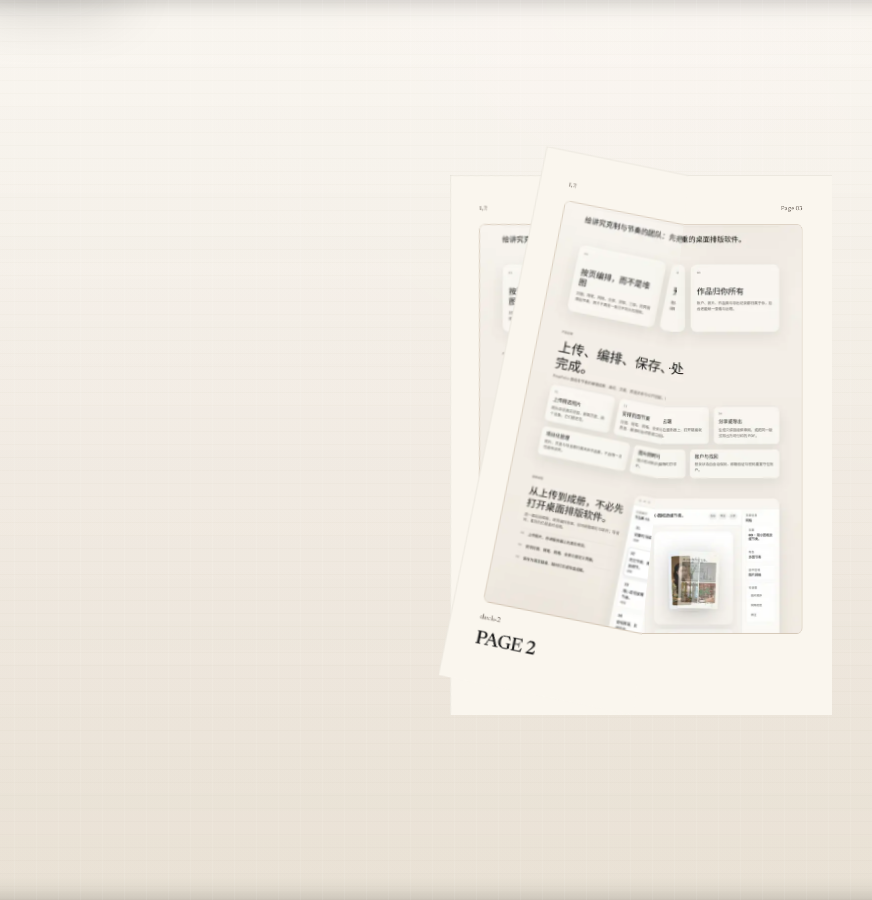
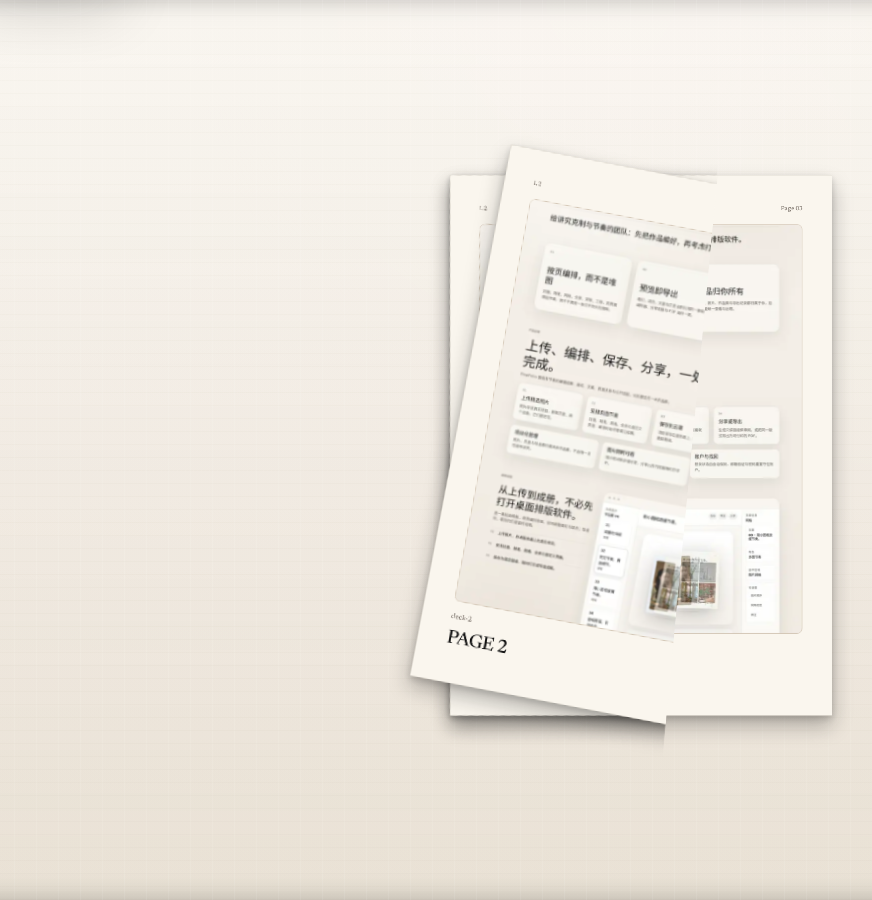
Make the per-page box-shadow visible
The page box-shadow was being clipped by `.inner-page { overflow: hidden }` and
the boundary clip, so pages looked shadowless. `.inner-page` is now overflow
visible and `.clip` keeps `overflow: clip` with a 48px clip margin, so the shadow
extends outside the sheet while page content stays clipped. The shadow is also
strong enough to read at rest.

The shadow remains a static box-shadow (no filter), so it does not flicker and
images are not re-rasterized.

diff --git a/src/styles.css b/src/styles.css
@@ -5018,6 +5018,19 @@ button.asset-frame {
   backface-visibility: hidden;
 }
 
+.issue-viewer__turnjs .page-wrapper {
+  overflow: visible !important;
+}
+
+.issue-viewer__turnjs .inner-page {
+  overflow: visible !important;
+}
+
+.issue-viewer__turnjs .clip {
+  overflow: clip !important;
+  overflow-clip-margin: 48px;
+}
+
 .issue-viewer__turnjs.issue-viewer__turnjs--ready > .issue-turnjs__page {
   display: none !important;
 }
@@ -5047,9 +5060,7 @@ button.asset-frame {
 }
 
 .issue-turnjs__page--boundary {
-  overflow: hidden;
-  overflow: clip;
-  overflow-clip-margin: 14px;
+  overflow: visible;
 }
 
 .issue-turnjs__sheet {
@@ -5070,14 +5081,14 @@ button.asset-frame {
 
 .issue-turnjs__sheet-scale .magazine-page {
   box-shadow:
-    0 12px 22px rgba(17, 17, 17, 0.16),
-    0 3px 7px rgba(17, 17, 17, 0.08);
+    0 22px 40px rgba(17, 17, 17, 0.28),
+    0 6px 14px rgba(17, 17, 17, 0.16);
 }
 
 .issue-turnjs__page--boundary .issue-turnjs__sheet-scale .magazine-page {
   box-shadow:
-    0 10px 18px rgba(17, 17, 17, 0.14),
-    0 2px 6px rgba(17, 17, 17, 0.07);
+    0 20px 36px rgba(17, 17, 17, 0.26),
+    0 5px 12px rgba(17, 17, 17, 0.15);
 }
 
 .issue-viewer__boundary-turn {

diff --git a/docs/issue-register.md b/docs/issue-register.md
@@ -163,7 +163,7 @@
 | T7 | 图库磁贴悬停时边框变白，照片像被裁掉 | hover 规则用了白色边框 + 浮起阴影 | 已修复：悬停只把边框加深到 30% 墨色，不浮起、不变白 |
 | T8 | 图片未加载时显示纯白块，像是坏了 | 没有加载/失败状态 | 已修复：共用 `PhotoThumb`，加载中显示“加载中…”，失败显示“图片无法显示”；证据 `docs/evidence/2026-11-21-gallery-loading.png` |
 | T9 | 点击 UnAlbum 图片只显示“导入中”，随后没有反应，实际无法使用 | 导入路由还引用了已删除的 `binding` 变量，接口 500 | 已修复：使用 `getPhotoForUser` 返回的 binding；`validate:mvp` 新增真实导入 + 去重 + 缩略图代理用例 |
-| T20 | 全局背景阴影闪烁/消失/提前出现；页面阴影在按压、拖动、悬停角时闪烁；翻页中图片闪烁 | 背景阴影绑定到掀起时序；页面阴影用 `filter: drop-shadow` 会强制整页（含图片）在 3D 变换中重栅格化 | 已移除全局背景阴影；页面阴影改为 `.magazine-page` 的 `box-shadow`，无 filter 祖先，图片不重绘；闭合/展开/翻动/平铺都保留并随纸移动。测试 reader 6/6 |
+| T20 | 全局背景阴影闪烁/消失/提前出现；页面阴影在按压、拖动、悬停角时闪烁；翻页中图片闪烁；阴影被 turn.js 裁剪链完全裁掉 | 背景阴影绑定掀起时序；页面阴影用 `filter: drop-shadow` 强制整页重栅格化；`.inner-page`/`.clip` 的 `overflow: hidden` 把 `box-shadow` 裁掉 | 已移除全局背景阴影；页面阴影改为 `.magazine-page` 的 `box-shadow`，并放开 `.inner-page`、给 `.clip` 48px clip margin，让阴影可见且内容仍裁剪；无 filter 祖先，图片不重绘。测试 reader 6/6 |
 | T19 | 从封面翻开时左侧出现第二页内容；turn.js 单面页面把封面正面留在左边、把目标页画在翻页背面 | 阅读器把每一页当作单面 DOM，turn.js 的 sheet 效果没有独立背面 | **未修复，需页面模型改造**：正确方案是把奇数页/偶数页配成一张纸，正反两面分别渲染并做背面隐藏；试过的 CSS 镜像/隐藏背面会产生空白或扭曲，已回退。需要确认翻页配对规则后再改（见报告 2026-11-22） |
 | T18 | 分享页未翻页时杂志没有任何背景阴影或轮廓，像浮在空白上的白纸；已有的阴影 CSS 从未被任何代码激活 | 阴影状态类无人设置，turn.js 自带 `.shadow` 又被强制隐藏 | 已修复：在书本体上增加非旋转接触阴影（左右两半，`::before`/`::after`），按 cover/spread/last 三种静止形态只覆盖真实纸张，翻页期间按仍在桌面上的纸张逐半保留/移除；1px 纸边 + 两层柔和投影，ready 后才淡入。实测 cover/spread/翻页中/落页/折角/拖拽折角/移动端/全屏 8 种状态；证据 `docs/evidence/2026-11-22-reader-*.png`；新增 e2e 断言三种静止形态的阴影几何 |
 | T14 | 公开分享页拖拽翻页后，页面一直粘在鼠标上，松开左键或单击都不释放 | 内置 turn.js 在全局 mouseup 中对 `document` 调用 `offset()`、对没有事件数据的元素取 `dispatch`，抛错后没有清理拖拽状态；peel 释放时又访问了不存在的 `dpoint` | 已修复：对 vendor 里三处做防御（document offset、缺失 events、缺失 dpoint），并把版本号提升到 `20261121e`；新增 e2e 拖拽-释放-移动断言，连续 8 次通过 |

diff --git a/docs/remediation-report-2026-11-22.md b/docs/remediation-report-2026-11-22.md
@@ -22,6 +22,9 @@ static CSS, so it cannot flicker, disappear, or appear early.
 - `.issue-turnjs__sheet-scale .magazine-page` has a `box-shadow`. Turn.js
   transforms the sheet, so the shadow follows the moving page. There is no
   `filter` on the wrapper or on any image ancestor.
+- `.inner-page` is `overflow: visible` and `.clip` is `overflow: clip` with a
+  48px clip margin, so the page's box-shadow can extend outside the sheet while
+  the page content is still clipped.
 - Turn.js `gradients` is off and its `inner-gradient`/`outer-gradient` layers are
   hidden, so there is no direction-dependent spine band.
 - The page's own `.magazine-page` box-shadow remains as a subtle surface edge.
@@ -54,9 +57,9 @@ static CSS, so it cannot flicker, disappear, or appear early.
 | Fullscreen | `2026-11-22-reader-fullscreen.png` |
 
 **Regression guard:** `tests/e2e/reader-turn.spec.ts` asserts that visible pages
-carry a `box-shadow` in every state (cover, spread, last page, mid-turn, press,
-mobile, auto-slide), that no page wrapper or image ancestor has a `filter`, and
-that the book has no `::before`/`::after` background layer. A dedicated test
+carry a visible `box-shadow` in every state (cover, spread, last page, mid-turn,
+press, mobile, auto-slide), that no page wrapper or image ancestor has a `filter`,
+and that the book has no `::before`/`::after` background layer. A dedicated test
 hovers all four corners and presses the page, asserting the per-page shadow value
 does not change.
 

diff --git a/docs/devlog.md b/docs/devlog.md
@@ -1916,10 +1916,12 @@
   nothing and was ruled out.
 - The global background shadow is gone. Every page surface carries its own
   `box-shadow`, so a page has a shadow whether closed, open, turning, or flat,
-  and it follows the sheet through the air. No `filter` is used on the wrapper or
-  on image ancestors, so page content is not re-rasterized during the turn and
-  images do not flicker. With no global layer there is nothing to vanish on a
-  drag or reappear before a cancelled page settles.
+  and it follows the sheet through the air. `.inner-page` is overflow visible and
+  `.clip` keeps a 48px clip margin so the shadow shows while content stays
+  clipped. No `filter` is used on the wrapper or on image ancestors, so page
+  content is not re-rasterized during the turn and images do not flicker. With no
+  global layer there is nothing to vanish on a drag or reappear before a
+  cancelled page settles.
 - Turn.js gradients are disabled and their layers hidden, so the spine has the same
   (no) shading in both directions.
 - The moving sheet keeps its own shadow: the per-frame pass marks page wrappers
